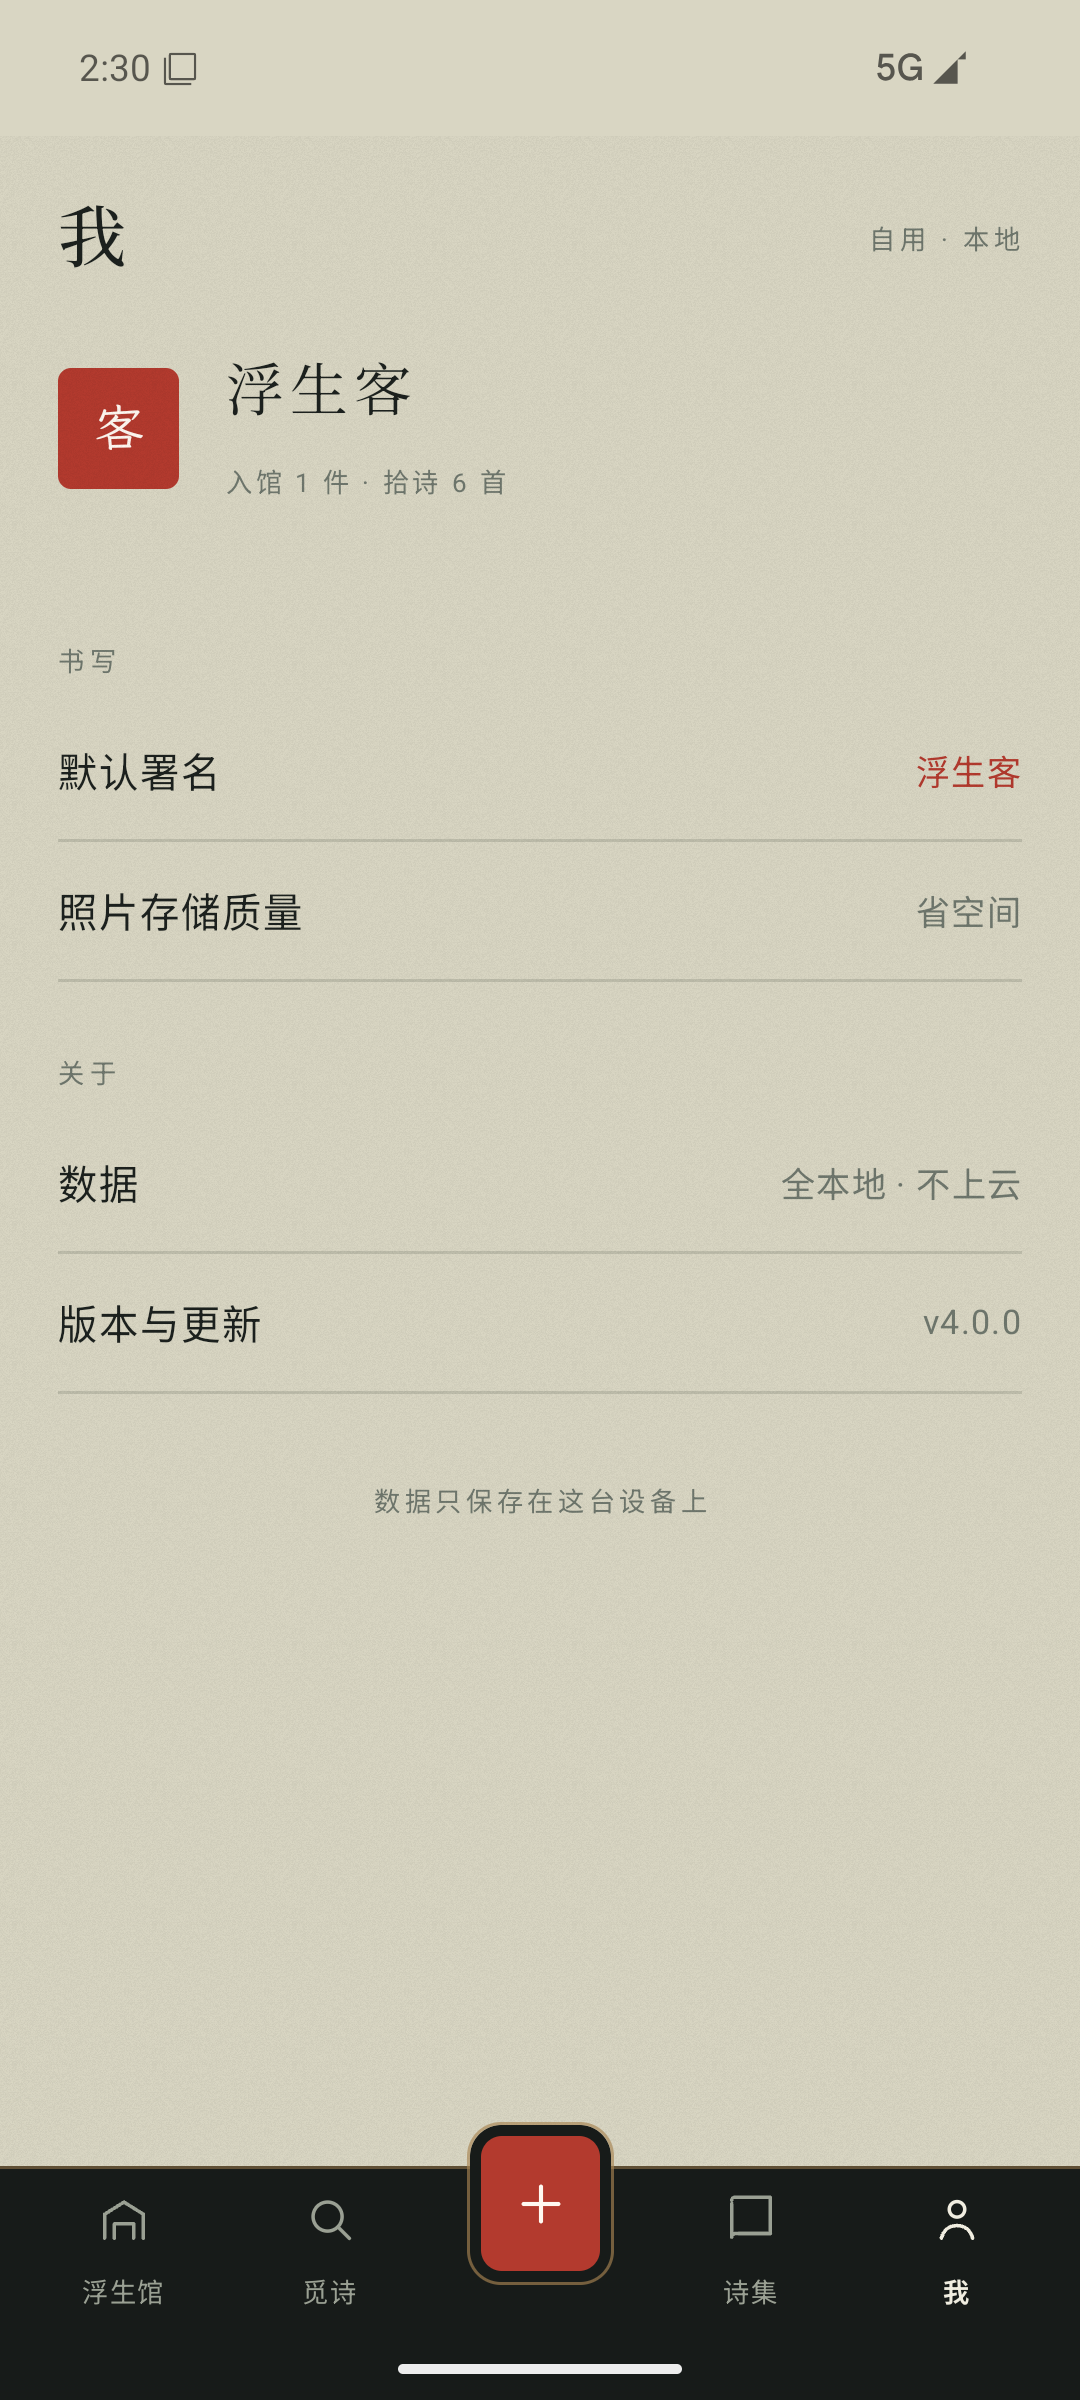
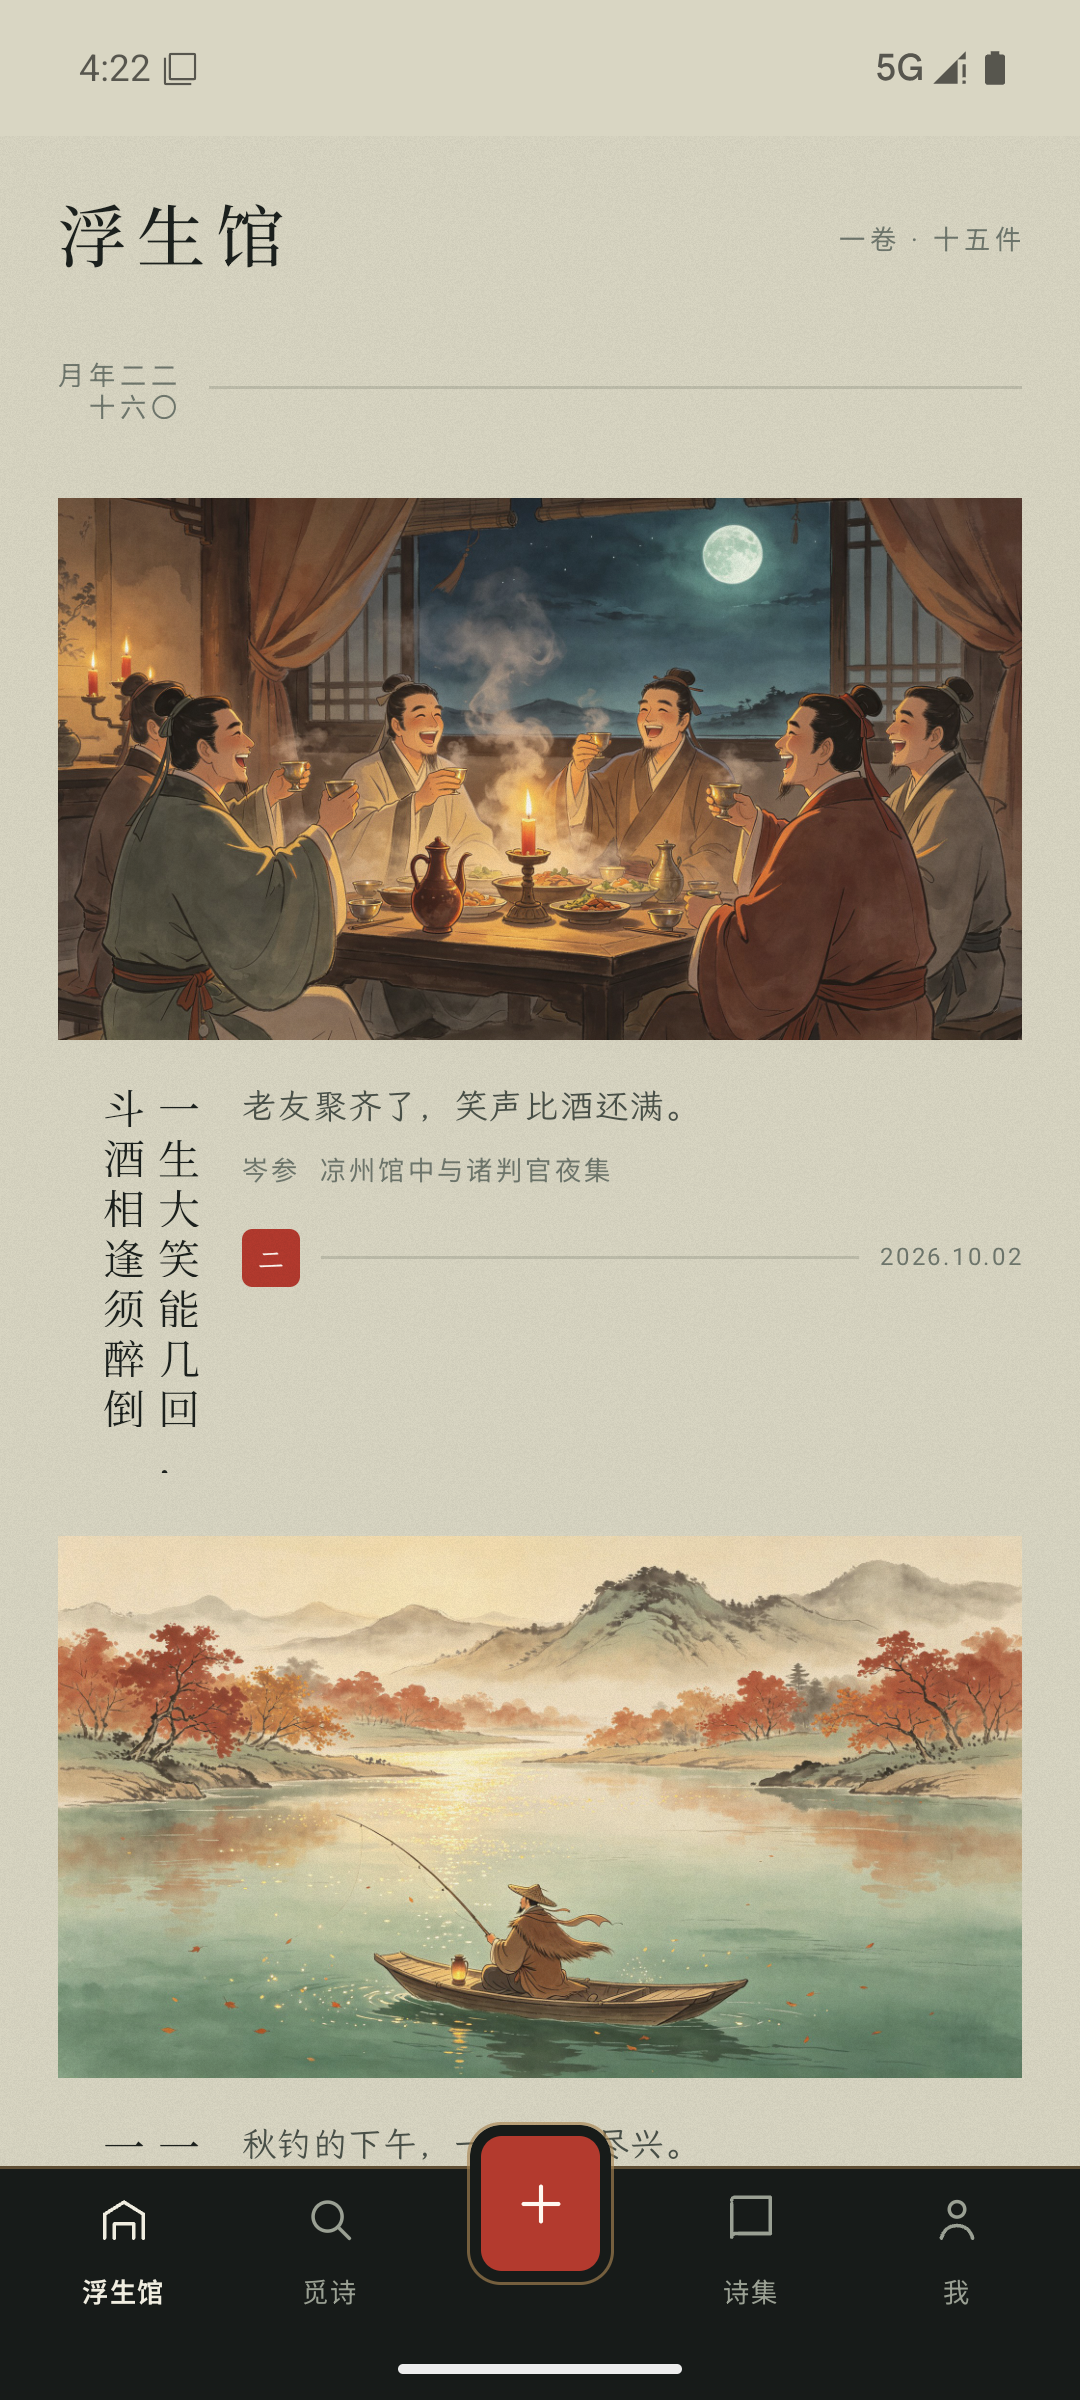
fix: 竖排容器随长句增高（128/160/236/196dp 改下限），长句不再截断

diff --git a/android/app/src/main/java/com/fusheng/poetry/ui/HallPage.kt b/android/app/src/main/java/com/fusheng/poetry/ui/HallPage.kt
@@ -214,13 +214,15 @@ private fun LandscapeLeaf(
     Column {
         Plate(photoFile, card.exhibit.focusLine, Modifier.fillMaxWidth().aspectRatio(displayRatio))
         Row(Modifier.padding(top = 14.dp), horizontalArrangement = Arrangement.spacedBy(16.dp)) {
+            // 竖排容器随长句增高（下限 128dp = 设计稿短句示例值）
+            val poemH = 128.dp.coerceAtLeast((poemLines.maxOf { it.length } * 16f * 1.18f).dp)
             VerticalPoem(
                 poemLines,
                 fontSize = 16.sp,
                 lineHeightFactor = 1.3f,
                 // focus line 最多两列，全文进夜展/详情（定稿 §3.3）
                 maxColumns = 2,
-                modifier = Modifier.width(54.dp).height(128.dp).clipToBounds(),
+                modifier = Modifier.width(54.dp).height(poemH),
             )
             Column(Modifier.weight(1f)) {
                 NoteText(card.exhibit.note)
@@ -255,14 +257,15 @@ private fun PortraitLeaf(
                     Modifier.width(imgWidth).height(imgHeight)
                 },
             )
-            Column(Modifier.weight(1f)) {
-                VerticalPoem(
-                    poemLines,
-                    fontSize = 16.sp,
-                    lineHeightFactor = 1.3f,
-                    maxColumns = 2,
-                    modifier = Modifier.height(160.dp).clipToBounds(),
-                )
+        Column(Modifier.weight(1f)) {
+            val poemH = 160.dp.coerceAtLeast((poemLines.maxOf { it.length } * 16f * 1.18f).dp)
+            VerticalPoem(
+                poemLines,
+                fontSize = 16.sp,
+                lineHeightFactor = 1.3f,
+                maxColumns = 2,
+                modifier = Modifier.height(poemH),
+            )
                 NoteText(card.exhibit.note, Modifier.padding(top = 10.dp))
                 MetaText(meta.third, Modifier.padding(top = 2.dp))
                 SealLine(meta.first, meta.second, Modifier.padding(top = 10.dp))

diff --git a/android/app/src/main/java/com/fusheng/poetry/ui/ExhibitNightPage.kt b/android/app/src/main/java/com/fusheng/poetry/ui/ExhibitNightPage.kt
@@ -201,12 +201,13 @@ private fun ScrollFrame(
                 Modifier.padding(top = 18.dp),
                 horizontalArrangement = Arrangement.spacedBy(18.dp),
             ) {
+                val poemH = 236.dp.coerceAtLeast((poemLines.maxOf { it.length } * 23f * 1.18f).dp)
                 VerticalPoem(
                     poemLines,
                     fontSize = 23.sp,
                     lineHeightFactor = 1.28f,
                     maxColumns = 2, // focus line 最多两列（§3.3）
-                    modifier = Modifier.height(236.dp).clipToBounds(),
+                    modifier = Modifier.height(poemH),
                     color = Ink2,
                 )
                 Column(Modifier.weight(1f)) {

diff --git a/android/app/src/main/java/com/fusheng/poetry/ui/SeekPage.kt b/android/app/src/main/java/com/fusheng/poetry/ui/SeekPage.kt
@@ -212,11 +212,13 @@ private fun DailyOne(poem: CorpusPoem, picked: Boolean, onPick: () -> Unit) {
             }
         }
         Spacer(Modifier.width(22.dp))
+        val dailyLines = splitPoemLines(poem.focusLine)
+        val dailyH = 196.dp.coerceAtLeast((dailyLines.maxOf { it.length } * 20f * 1.18f).dp)
         VerticalPoem(
-            splitPoemLines(poem.focusLine),
+            dailyLines,
             fontSize = 20.sp,
             maxColumns = 2,
-            modifier = Modifier.width(60.dp).height(196.dp).clipToBounds(),
+            modifier = Modifier.width(60.dp).height(dailyH),
         )
     }
 }
